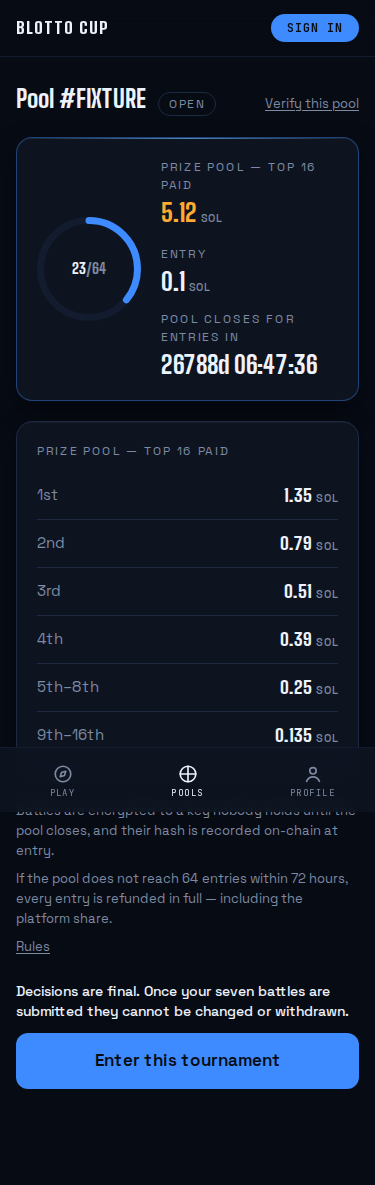
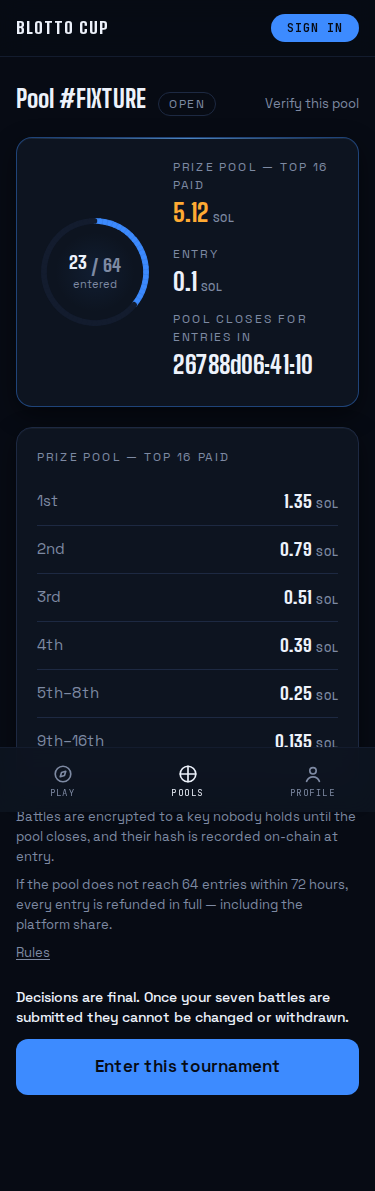
Pools lobby + gate (UI constitution 6.2 / 6.3)
- Countdown: calm per-second digit crossfade (only changed digits move;
  exits 150ms, enters 250ms); the final hour is a tone shift only —
  brighter, never faster, never red, never moving. DigitSlide now derives
  its outgoing digits with a render-phase update so rapid ticks never
  animate against a stale value.
- LivePoolRing: the lobby heartbeat — hydrates from SSR and re-reads an
  Open pool every 15s so the SeatRing's per-entry choreography fires on
  real entries only; a dead indexer holds the last honest value. Used on
  the landing door, the pool page, and (static, miniature) open rows in
  the per-tier lobby.
- Pool page: primary/secondary CTAs via buttonClasses, verify link with
  the underline draw; §8.6 stays a <p> above the enter <a> (D2 contract).
- The gate is near-silence: the sheet fades up once (micro enter), the
  checkbox tick draws in over 150ms (clears faster), the recorded
  acceptance lands as a WEIGHT stamp before the gate yields, and the
  attest failure uses the error surface. Balance pre-flight still runs
  before the timed session starts.
- Remaining legacy animate-rise/settle in the play flow migrated to the
  grammar's micro enter.

Claude-Session: https://claude.ai/code/session_01W6h9KMq5j1ZfaQMX4inQBX

diff --git a/app/src/app/play/play-client.tsx b/app/src/app/play/play-client.tsx
@@ -48,7 +48,7 @@ const TOPUP_ENABLED = process.env.NEXT_PUBLIC_TOPUP_ENABLED === '1';
  * sentence — same panel shape whatever stopped the flow. */
 function StatePanel({ title, children }: { title: string; children: React.ReactNode }) {
   return (
-    <section className="animate-rise flex flex-col gap-2 rounded-2xl border border-line bg-raised p-6">
+    <section className="animate-enter flex flex-col gap-2 rounded-2xl border border-line bg-raised p-6">
       <h2 className="font-display text-[24px] font-bold text-ink">{title}</h2>
       <div className="flex max-w-prose flex-col gap-2 text-[15px] leading-6 text-ink-muted">
         {children}
@@ -201,7 +201,7 @@ export function PlayClient() {
   if (done) {
     // v3 D2: the sealed confirmation is a designed moment, not a sentence.
     return (
-      <section aria-live="polite" className="animate-settle flex flex-col items-center gap-5 py-14 text-center">
+      <section aria-live="polite" className="animate-enter flex flex-col items-center gap-5 py-14 text-center">
         <div className="relative h-16 w-16" aria-hidden>
           <div className="absolute inset-0 rounded-2xl border-2 border-brand" />
           <div className="absolute inset-0 rounded-2xl" style={{ boxShadow: 'var(--glow-action)' }} />
@@ -352,6 +352,10 @@ function AttestationGate({
   const [termsChecked, setTermsChecked] = useState(false);
   const [attestError, setAttestError] = useState(false);
   const [attesting, setAttesting] = useState(false);
+  // The recorded acceptance lands as a WEIGHT stamp (it is final, signed,
+  // and versioned), then the gate yields. Reversible ticks get plain
+  // transitions; only the recorded act gets WEIGHT.
+  const [stamping, setStamping] = useState(false);
 
   const onAttest = useCallback(async () => {
     if (attesting) return;
@@ -359,17 +363,26 @@ function AttestationGate({
     setAttestError(false);
     const ok = await submitAttestation(process.env.NEXT_PUBLIC_ENTRY_API_URL, signer, wallet);
     setAttesting(false);
-    if (ok) setAttested(true);
-    else setAttestError(true);
+    if (ok) {
+      setStamping(true);
+      window.setTimeout(() => setAttested(true), 240);
+    } else {
+      setAttestError(true);
+    }
   }, [attesting, signer, wallet]);
 
   if (attested) return <>{children}</>;
 
-  // v3 D2: the clickwrap is a full-screen moment — the whole viewport is the
-  // agreement, nothing competes with it. Each statement is a large tap
-  // target; the confirm stays disabled until both are checked.
+  // The gate is near-silence (UI constitution 6.3): the sheet fades up
+  // once, ticks draw in over 150ms, nothing else moves. Sobriety here IS
+  // the design. Full-screen — the whole viewport is the agreement.
   return (
-    <section className="animate-settle flex min-h-[70vh] flex-col justify-center gap-6">
+    <section
+      className={
+        (stamping ? 'animate-stamp ' : 'animate-enter ') +
+        'flex min-h-[70vh] flex-col justify-center gap-6'
+      }
+    >
       <h2 className="font-display text-[34px] leading-[38px] font-extrabold text-ink">
         {COPY.gate.gateTitle}
       </h2>
@@ -387,7 +400,7 @@ function AttestationGate({
           <label
             key={i}
             className={
-              'flex cursor-pointer items-start gap-4 rounded-2xl border p-5 transition-colors ' +
+              'flex cursor-pointer items-start gap-4 rounded-2xl border p-5 transition-colors duration-150 ' +
               (row.checked ? 'border-brand/60 bg-raised' : 'border-line bg-raised hover:border-brand/30')
             }
           >
@@ -395,20 +408,59 @@ function AttestationGate({
               type="checkbox"
               checked={row.checked}
               onChange={(e) => row.set(e.target.checked)}
-              className="mt-0.5 h-5 w-5 shrink-0 accent-(--color-brand)"
+              className="sr-only"
             />
+            <GateTick checked={row.checked} />
             <span className="text-[15px] leading-6 text-ink">{row.text}</span>
           </label>
         ))}
       </div>
       {attestError && (
-        <p className="text-[14px] leading-5 text-price-down" role="alert">
+        <p className="error-surface text-[14px] leading-5 text-price-down" role="alert">
           {COPY.gate.attestFailed}
         </p>
       )}
-      <Button size="lg" disabled={!ageChecked || !termsChecked || attesting} onClick={onAttest}>
+      <Button
+        size="lg"
+        disabled={!ageChecked || !termsChecked || attesting || stamping}
+        onClick={onAttest}
+      >
         {attesting ? '…' : COPY.gate.ageConfirm}
       </Button>
     </section>
+  );
+}
+
+/** The gate checkbox: a tick whose stroke draws in over 150ms. Unchecking
+ * clears it faster (100ms) — every exit beats its enter. */
+function GateTick({ checked }: { checked: boolean }) {
+  return (
+    <span
+      aria-hidden
+      className={
+        'mt-0.5 flex h-5 w-5 shrink-0 items-center justify-center rounded-md border ' +
+        'transition-colors duration-150 ' +
+        (checked ? 'border-brand bg-brand' : 'border-line bg-overlay')
+      }
+    >
+      <svg viewBox="0 0 20 20" className="h-3.5 w-3.5">
+        <path
+          d="m4 10.5 4 4L16 6"
+          fill="none"
+          stroke="var(--color-base)"
+          strokeWidth="2.4"
+          strokeLinecap="round"
+          strokeLinejoin="round"
+          pathLength={1}
+          strokeDasharray={1}
+          strokeDashoffset={checked ? 0 : 1}
+          style={{
+            transition: checked
+              ? 'stroke-dashoffset 150ms var(--ease-out)'
+              : 'stroke-dashoffset 100ms var(--ease-out)',
+          }}
+        />
+      </svg>
+    </span>
   );
 }

diff --git a/app/src/app/pools/[pool]/page.tsx b/app/src/app/pools/[pool]/page.tsx
@@ -14,9 +14,10 @@ import { TabBar } from '@/components/shell/tab-bar';
 import { LiveDataUnavailable } from '@/components/shell/live-unavailable';
 import { Card } from '@/components/ui/card';
 import { Stat } from '@/components/ui/stat';
-import { ProgressRing } from '@/components/ui/progress-ring';
 import { PrizeTable } from '@/components/ui/prize-table';
 import { Countdown } from '@/components/ui/countdown';
+import { LivePoolRing } from '@/components/pool/live-pool-ring';
+import { buttonClasses } from '@/components/ui/button';
 
 const BANDS = [
   { label: '1st', rank: 1 },
@@ -57,7 +58,7 @@ export default async function PoolPage({ params }: { params: Promise<{ pool: str
           </span>
           <Link
             href={`/verify?pool=${pool.pool}`}
-            className="ml-auto text-[13px] text-ink-muted underline underline-offset-2 hover:text-ink"
+            className="link-draw ml-auto text-[13px] text-ink-muted hover:text-ink"
           >
             Verify this pool
           </Link>
@@ -65,12 +66,9 @@ export default async function PoolPage({ params }: { params: Promise<{ pool: str
 
         <Card live={open} className="mb-5 p-5">
           <div className="flex flex-wrap items-center gap-5">
-            <ProgressRing
-              value={pool.entrants}
-              total={64}
-              size={104}
-              label={`${pool.entrants} of 64 seats filled`}
-            />
+            {/* The room's heartbeat: real occupancy, WARMTH at true
+                intensity, one riser per real entry. */}
+            <LivePoolRing pool={pool} size={116} riser={open} />
             <div className="flex min-w-0 flex-1 flex-col gap-3">
               <Stat
                 label={COPY.pool.prizeTableTitle}
@@ -118,17 +116,14 @@ export default async function PoolPage({ params }: { params: Promise<{ pool: str
             <p className="text-[14px] font-medium leading-5 text-ink">
               {COPY.pool.decisionsFinal}
             </p>
-            <Link
-              href={`/play?pool=${pool.pool}`}
-              className="flex h-14 items-center justify-center rounded-xl bg-brand text-[17px] font-semibold text-(--color-base) transition-colors hover:bg-brand-hot"
-            >
+            <Link href={`/play?pool=${pool.pool}`} className={buttonClasses('primary', 'lg') + ' w-full'}>
               {COPY.pool.enter}
             </Link>
           </section>
         ) : (
           <Link
             href={`/pools/${pool.pool}/results`}
-            className="flex h-12 items-center justify-center rounded-xl border border-line text-[15px] font-medium text-ink transition-colors hover:border-brand hover:text-brand"
+            className={buttonClasses('secondary', 'md') + ' w-full'}
           >
             Results
           </Link>

diff --git a/app/src/components/pool/live-pool-ring.tsx b/app/src/components/pool/live-pool-ring.tsx
@@ -1,0 +1,47 @@
+'use client';
+
+/*
+ * LivePoolRing (UI constitution 6.2): the lobby's heartbeat. Hydrates from
+ * the server-rendered pool and, while the pool is Open, re-reads it every
+ * POLL_MS so the SeatRing's per-entry choreography (fill sweep, one LIGHT
+ * pass, digit slide, "+1 entered" riser) fires on REAL entries only — the
+ * component never synthesises a fill. In fixture mode (or a dead indexer)
+ * the ring simply holds the last honest value.
+ */
+
+import { useEffect, useState } from 'react';
+import { indexerApi } from '@/data/api';
+import type { PoolSummary } from '@/data/types';
+import { SeatRing } from '@/components/ui/seat-ring';
+
+const POLL_MS = 15_000;
+
+export function LivePoolRing({
+  pool,
+  size = 104,
+  riser = true,
+  yourSeat = null,
+}: {
+  pool: PoolSummary;
+  size?: number;
+  riser?: boolean;
+  yourSeat?: number | null;
+}) {
+  const [entrants, setEntrants] = useState(pool.entrants);
+
+  useEffect(() => {
+    if (pool.state !== 'Open') return;
+    const api = indexerApi();
+    const id = setInterval(async () => {
+      try {
+        const fresh = await api.getPool(pool.pool);
+        if (fresh) setEntrants(fresh.entrants);
+      } catch {
+        // Unreachable indexer: hold the last honest value; never invent.
+      }
+    }, POLL_MS);
+    return () => clearInterval(id);
+  }, [pool.pool, pool.state]);
+
+  return <SeatRing entrants={entrants} size={size} riser={riser} yourSeat={yourSeat} />;
+}

diff --git a/app/src/components/ui/countdown.tsx b/app/src/components/ui/countdown.tsx
@@ -18,6 +18,7 @@
  * read into the initial render.
  */
 import { useEffect, useState } from "react";
+import { DigitSlide } from "./digit-slide";
 
 export interface CountdownProps {
   /** Unix seconds, decimal string or number. */
@@ -74,13 +75,28 @@ export function Countdown({ deadlineUnix, label, now = Date.now }: CountdownProp
         ? `${t.d}d ${pad(t.h)}:${pad(t.m)}:${pad(t.s)}`
         : `${pad(t.h)}:${pad(t.m)}:${pad(t.s)}`;
 
+  /* The final hour gets a tone shift ONLY (UI constitution 6.2): brighter,
+   * never faster, never red, never moving. A metronome, not an alarm. */
+  const finalHour = t !== null && t.d === 0 && t.h === 0;
+
   return (
     <div className="flex flex-col gap-1">
       {label ? (
         <span className="text-[12px] uppercase tracking-[0.14em] text-ink-muted">{label}</span>
       ) : null}
-      <time className="tnum font-display text-[24px] leading-[30px] font-bold text-ink">
-        {clock}
+      <time
+        className={
+          'tnum font-display text-[24px] leading-[30px] font-bold ' +
+          (finalHour ? 'text-brand-hot' : 'text-ink')
+        }
+      >
+        {t === null ? (
+          clock
+        ) : (
+          /* Calm per-second digit crossfade: only the digits that actually
+           * changed move (exit 150ms up, enter 250ms from below). */
+          <DigitSlide value={clock} label={label ? `${label}: ${clock}` : clock} />
+        )}
       </time>
     </div>
   );

diff --git a/app/src/app/pools/page.tsx b/app/src/app/pools/page.tsx
@@ -12,6 +12,7 @@ import { COPY } from '@/copy';
 import { AppHeader } from '@/components/shell/app-header';
 import { TabBar } from '@/components/shell/tab-bar';
 import { Card } from '@/components/ui/card';
+import { SeatRing } from '@/components/ui/seat-ring';
 import { LiveDataUnavailable } from '@/components/shell/live-unavailable';
 
 export default async function PoolsPage() {
@@ -79,6 +80,13 @@ export default async function PoolsPage() {
                               (p.state === 'Open' ? 'border-brand/40' : '')
                             }
                           >
+                            {/* The room's heartbeat in miniature — real
+                                occupancy only, WARMTH at true intensity. */}
+                            {p.state === 'Open' ? (
+                              <SeatRing entrants={p.entrants} size={44}>
+                                <span className="sr-only">{COPY.pool.entrantsOf(p.entrants)}</span>
+                              </SeatRing>
+                            ) : null}
                             <span className="tnum font-mono text-[12px] text-ink-muted">
                               #{p.id}
                             </span>

diff --git a/app/src/app/page.tsx b/app/src/app/page.tsx
@@ -27,7 +27,7 @@ import { TabBar } from '@/components/shell/tab-bar';
 import { Card } from '@/components/ui/card';
 import { Stat } from '@/components/ui/stat';
 import { Countdown } from '@/components/ui/countdown';
-import { SeatRing } from '@/components/ui/seat-ring';
+import { LivePoolRing } from '@/components/pool/live-pool-ring';
 import { buttonClasses } from '@/components/ui/button';
 import { FadeInView } from '@/components/ui/fade-in-view';
 import { HowItWorksExplainer } from '@/components/home/how-it-works-explainer';
@@ -71,7 +71,7 @@ export default async function PlayPage() {
         ) : hero ? (
           <Card live className="p-5">
             <div className="flex items-center gap-5">
-              <SeatRing entrants={hero.entrants} size={116} riser />
+              <LivePoolRing pool={hero} size={116} riser />
               <div className="flex min-w-0 flex-1 flex-col gap-3">
                 <Stat
                   label={COPY.pool.prizeTableTitle}

diff --git a/app/src/components/ui/digit-slide.tsx b/app/src/components/ui/digit-slide.tsx
@@ -13,7 +13,7 @@
  * never jitters sideways.
  */
 
-import { useEffect, useRef, useState } from 'react';
+import { useState } from 'react';
 
 interface DigitSlideProps {
   value: string;
@@ -23,14 +23,15 @@ interface DigitSlideProps {
 }
 
 export function DigitSlide({ value, className = '', label }: DigitSlideProps) {
+  // "Adjusting state when a prop changes" (render-phase update): prev is
+  // always the value of the previous render, so back-to-back ticks never
+  // animate against a stale outgoing digit.
+  const [last, setLast] = useState(value);
   const [prev, setPrev] = useState(value);
-  const settled = useRef(value);
-
-  useEffect(() => {
-    if (value === settled.current) return;
-    setPrev(settled.current);
-    settled.current = value;
-  }, [value]);
+  if (value !== last) {
+    setPrev(last);
+    setLast(value);
+  }
 
   const chars = [...value];
   const prevChars = [...prev];
